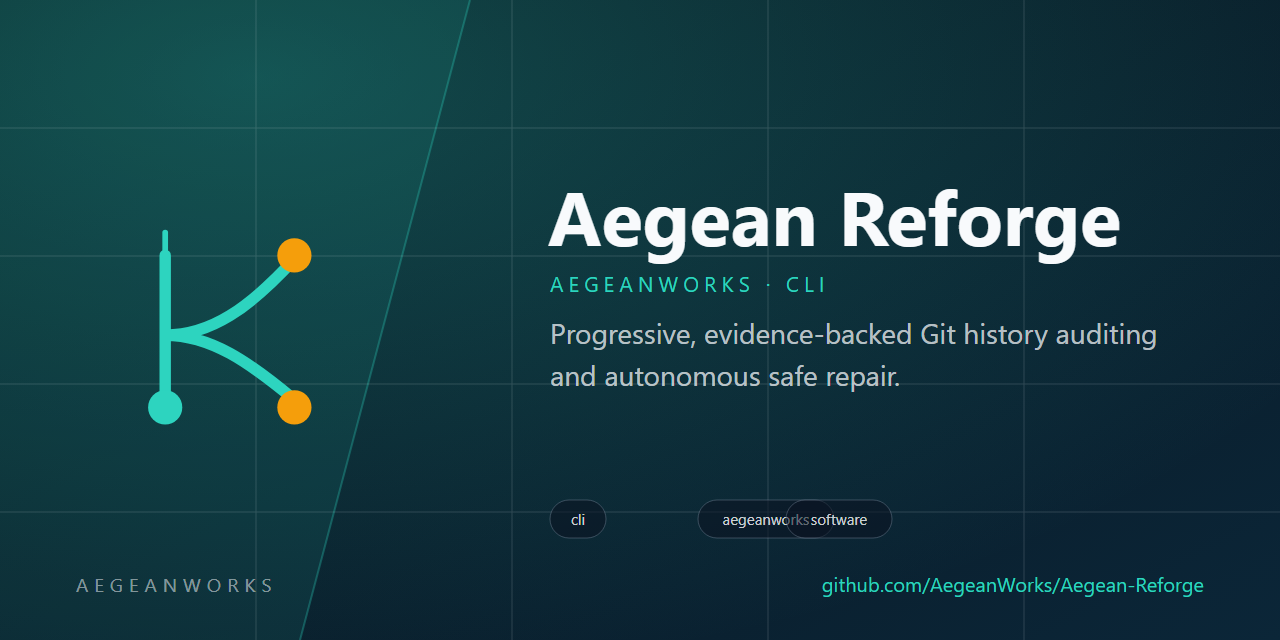
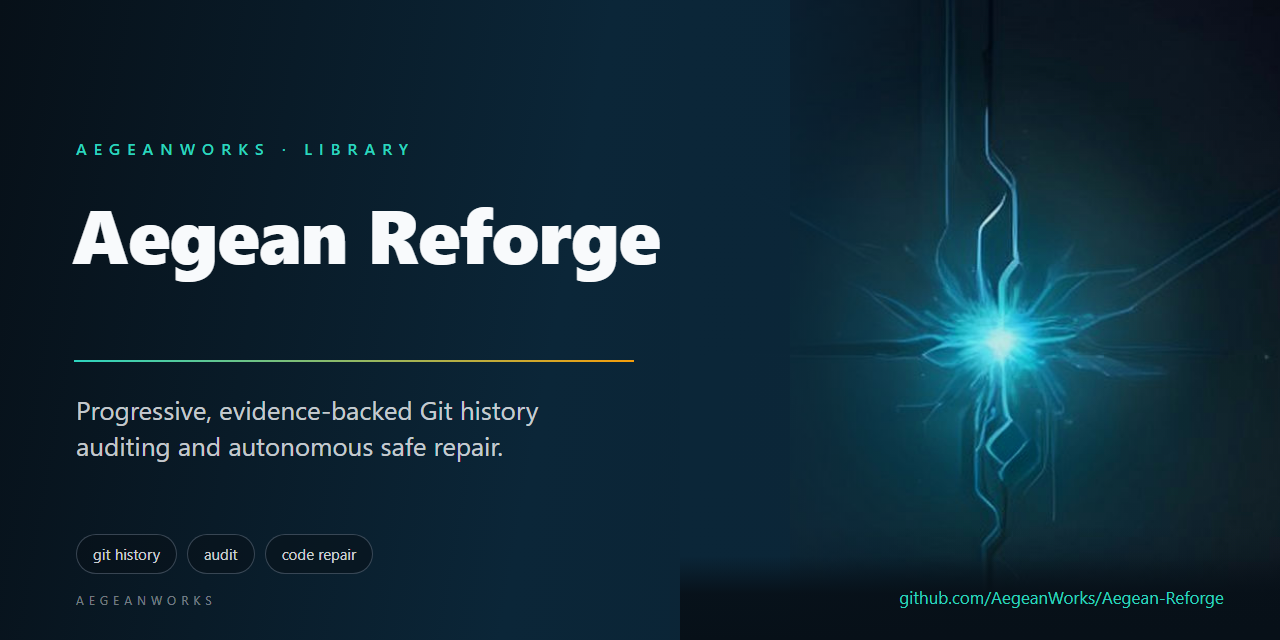
feat(brand): use reviewed AI-art identity

diff --git a/README.md b/README.md
@@ -1,8 +1,8 @@
 # Aegean Reforge
 
 <!-- aegean:media:start -->
-<p align="center"><img src="assets/logo.svg" alt="Aegean Reforge logo" width="96" height="96"></p>
-<p align="center"><img src="assets/social-preview.svg" alt="Aegean Reforge social preview" width="100%"></p>
+<p align="center"><img src="assets/logo.png" alt="Aegean-Reforge logo" width="96" height="96"></p>
+<p align="center"><img src="assets/social-preview.png" alt="Aegean-Reforge social preview" width="100%"></p>
 <!-- aegean:media:end -->
 
 > Progressive, evidence-backed Git history auditing and autonomous safe repair.
